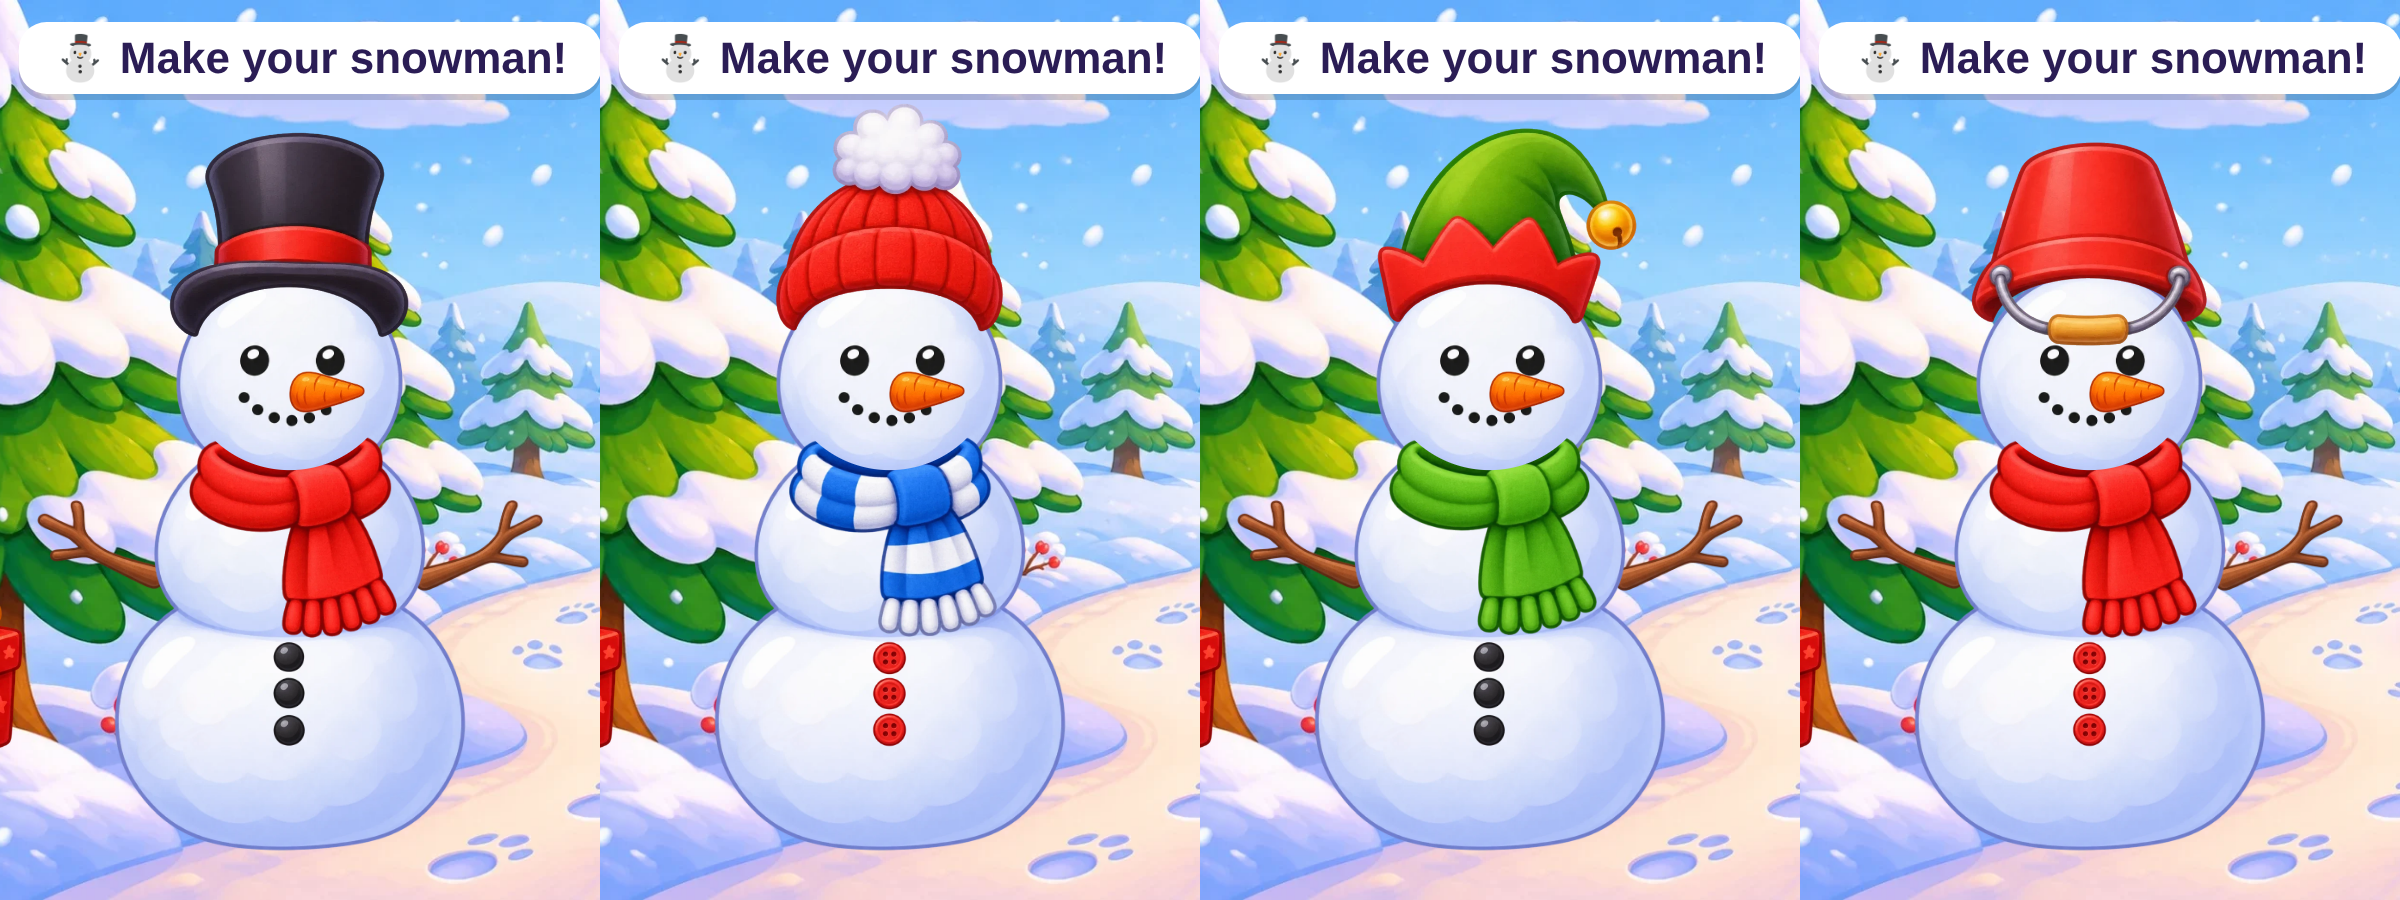
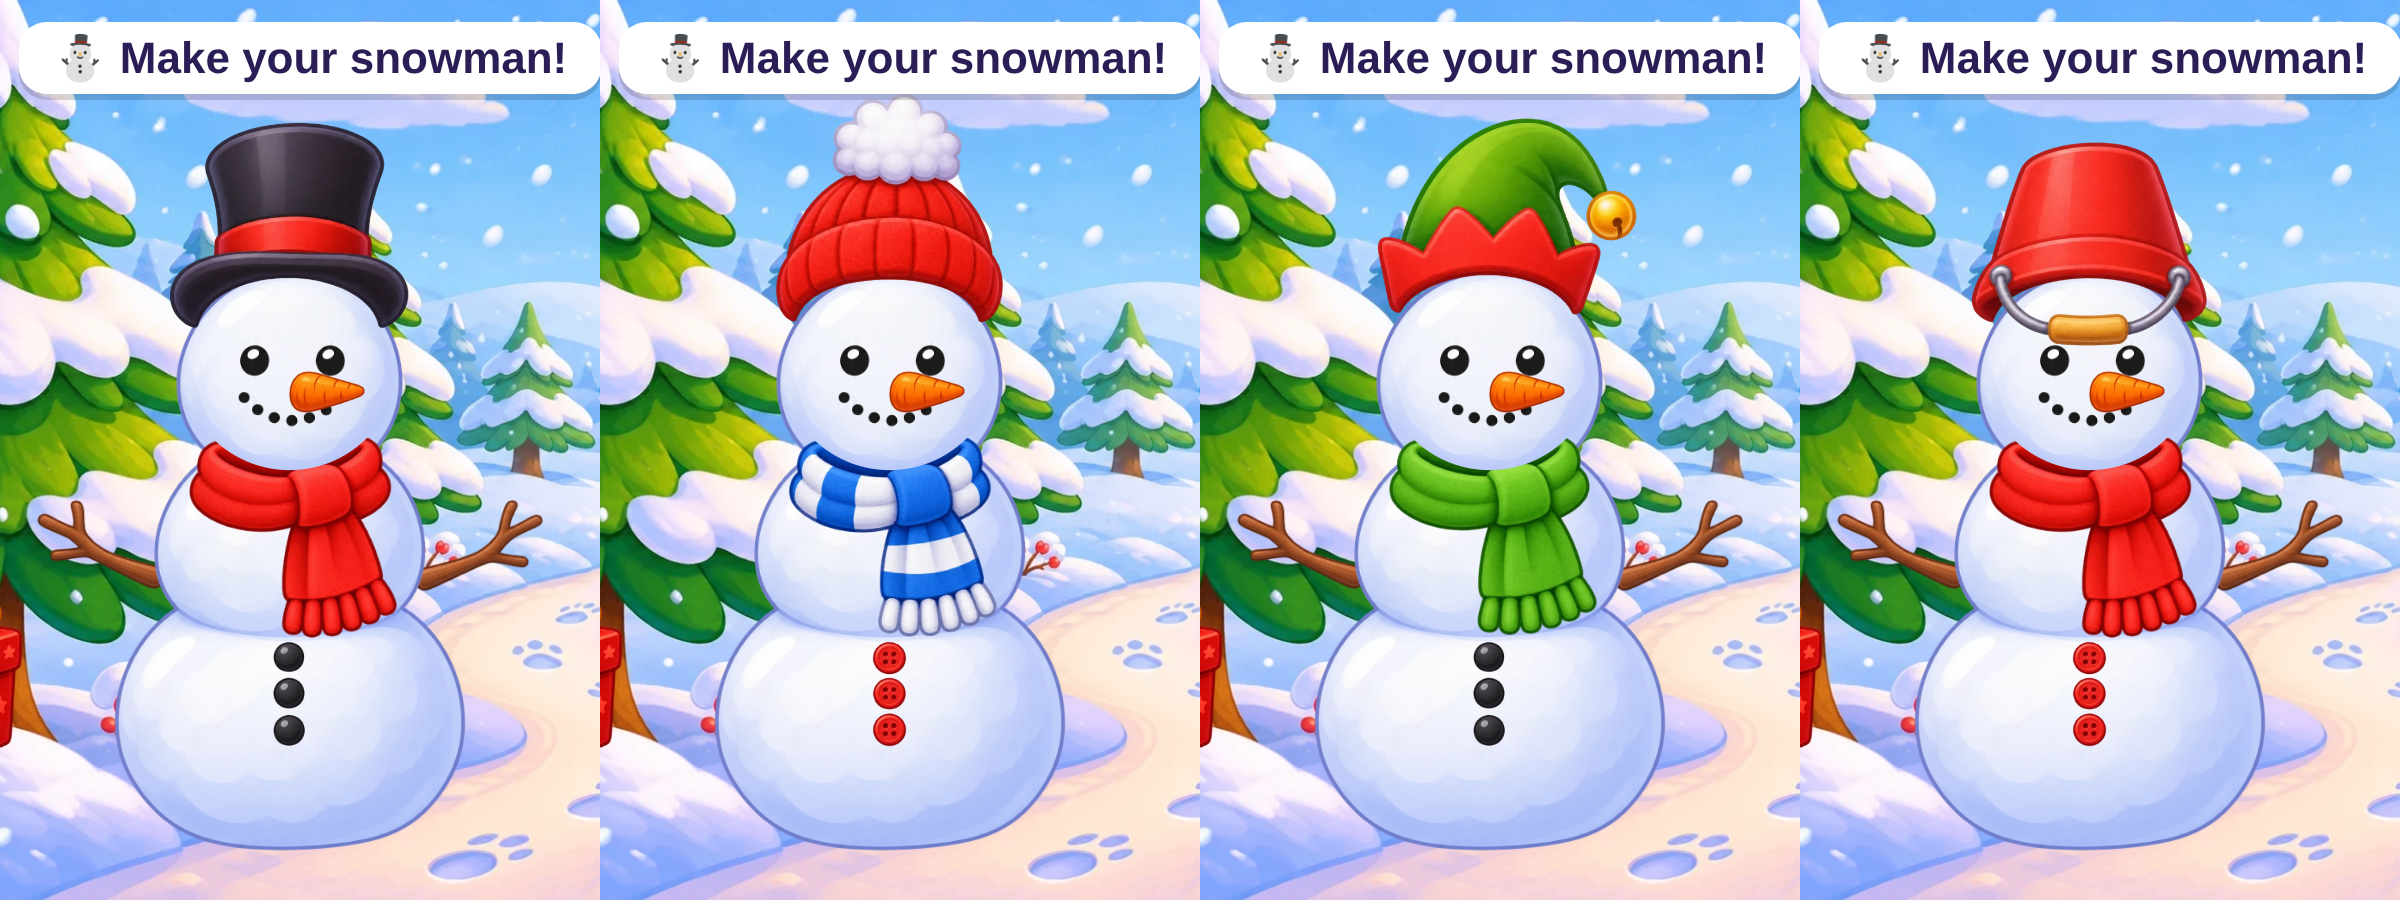
New Year 4-6: шапки выше, промпт 17 — шарфы только передней частью
Claude-Session: https://claude.ai/code/session_019ZphQUTHZfoLTjHoCTTcK2

diff --git a/lessons/newyear/4-6.html b/lessons/newyear/4-6.html
@@ -364,7 +364,7 @@ $('stage').addEventListener('pointerdown',e=>{if(ORDER[cur]==='torch'){tMouse=pt
 /* snowman builder: coordinates in base-image pixels (975x1508), box scale s */
 const SM_W=975,SM_H=1508,SMS=420/975;
 const PARTS={nose:{k:['sm_nose'],w:195,x:476,cy:365,ax:0,z:6},
- hat:{k:['sm_tophat','sm_beanie','sm_elfhat','sm_bucket'],w:{sm_tophat:600,sm_beanie:570,sm_elfhat:650,sm_bucket:590},apex:{sm_tophat:.73,sm_beanie:.79,sm_elfhat:.776,sm_bucket:.655},cx:{sm_tophat:.501,sm_beanie:.5,sm_elfhat:.436,sm_bucket:.501},apexY:{sm_tophat:120,sm_beanie:125,sm_elfhat:118,sm_bucket:100},z:7},
+ hat:{k:['sm_tophat','sm_beanie','sm_elfhat','sm_bucket'],w:{sm_tophat:600,sm_beanie:570,sm_elfhat:650,sm_bucket:590},apex:{sm_tophat:.73,sm_beanie:.79,sm_elfhat:.776,sm_bucket:.655},cx:{sm_tophat:.501,sm_beanie:.5,sm_elfhat:.436,sm_bucket:.501},apexY:{sm_tophat:98,sm_beanie:103,sm_elfhat:96,sm_bucket:100},z:7},
  scarf:{k:['sm_scarf_red','sm_scarf_blue','sm_scarf_green'],w:520,top:445,cx:.485,z:5},
  buttons:{k:['sm_buttons_black','sm_buttons_red'],h:270,cx:486,top:930,z:6},
  arm_l:{k:['sm_arm_left'],w:330,right:215,top:600,z:0},arm_r:{k:['sm_arm_right'],w:330,left:760,top:600,z:0}};

diff --git a/builds/newyear/4-6/prompty.md b/builds/newyear/4-6/prompty.md
@@ -95,3 +95,9 @@ Use the attached snowman picture as a reference for size and angle, and the atta
 ```
 Use the attached snowman picture as a reference for size and angle, and the attached dragon picture as a STYLE reference: the same cute 3D cartoon look, soft rounded shapes, bright friendly colours, clean studio lighting. Draw a sheet of three knitted scarves exactly as they would look when wrapped around this snowman's neck, but with the snowman removed. Row, left to right: 1) a red scarf; 2) a blue and white striped scarf; 3) a green scarf. All three exactly the same shape and size: a thick soft loop wrapped once around the neck, front view, the back part of the loop hidden behind the neck, a knot at the front, one long end with a fringe hanging down over the chest and slightly to the side. The loop is the right width for the place where the snowman's head meets the body. Transparent background, no background at all, cut-out PNG with alpha channel, no shadow. Wide empty gaps between the scarves, every scarf complete and not touching any other scarf or the edge. No text, no letters, no labels, no numbers.
 ```
+
+## 17. Шарфы — только передняя часть (замена промпта 16; образец: `obrazec_snegovik.png`)
+
+```
+Use the attached snowman picture as a reference for size and angle, and the attached dragon picture as a STYLE reference: the same cute 3D cartoon look, soft rounded shapes, bright friendly colours, clean studio lighting. Draw a sheet of three knitted scarves exactly as they look on this snowman's neck, but with the snowman removed. Row, left to right: 1) a red scarf; 2) a blue and white striped scarf; 3) a green scarf. Show ONLY the front part of the scarf that is visible in front of the neck: a thick soft band curving across the front like a smile, a knot at the front, one long end with a fringe hanging down and slightly to the side. NO back part of the loop, NO inside of the scarf, NO opening or hole at the top: the top edge of the band is a clean convex curve, as if the snowman's chin covers everything behind it. All three exactly the same shape and size. Transparent background, no background at all, cut-out PNG with alpha channel, no shadow. Wide empty gaps between the scarves, every scarf complete and not touching any other scarf or the edge. No text, no letters, no labels, no numbers.
+```

diff --git a/builds/zhdem_ot_anny.md b/builds/zhdem_ot_anny.md
@@ -90,7 +90,8 @@
 ## Чат «Halloween (курс Holidays)» — теперь и New Year
 
 
-🔴 **41.** Снеговик после выравнивания (`builds/newyear/4-6/snegovik_prevyu.png`, `snegovik_krupno.png`) — ок?
+🔴 **42.** Сгенерировать промпт 17 — шарфы, только передняя часть (приложить дракошу и `builds/newyear/4-6/obrazec_snegovik.png`).
+🔴 **43.** Шапки подняты (`builds/newyear/4-6/snegovik_prevyu.png`) — так ок?
 
 Концепция New Year — `builds/newyear/koncepciya.md`, решения — `builds/newyear/resheniya.md`.
 
